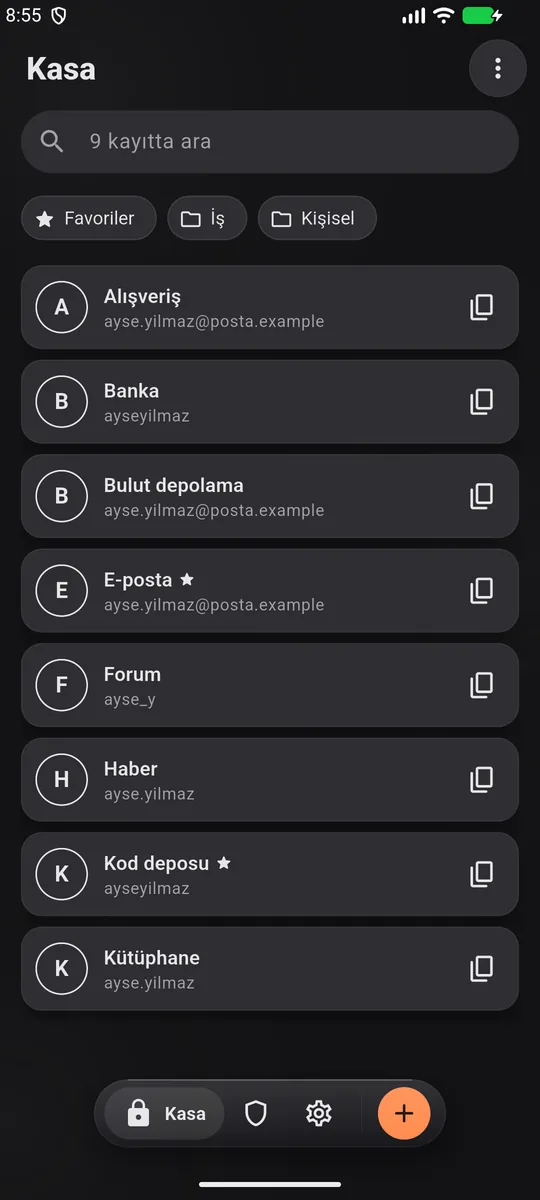
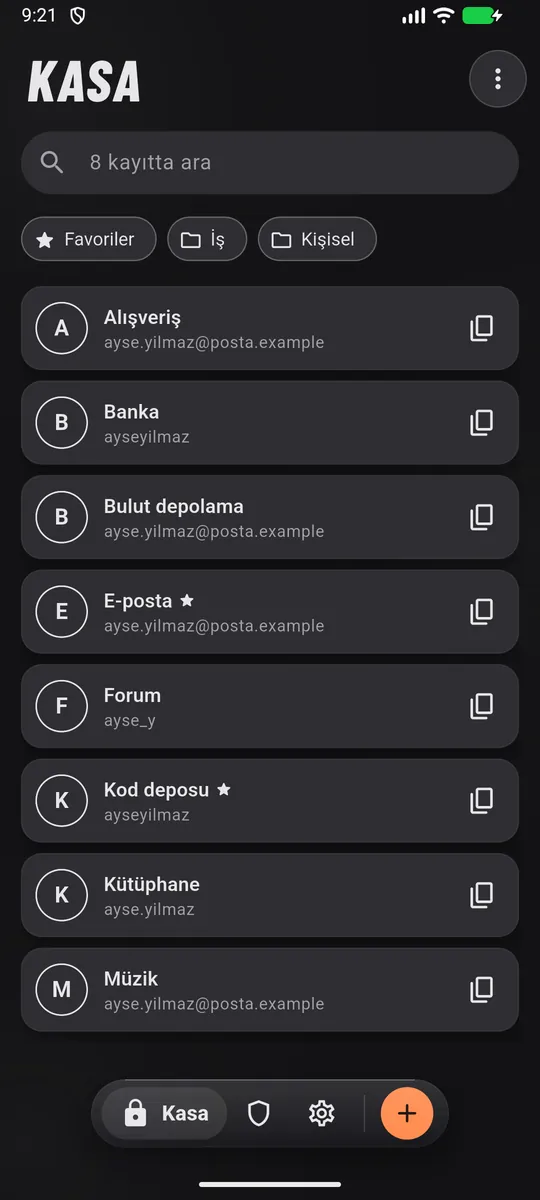
belge: kılavuz ve F-Droid görüntüleri yeni tasarımla, tasarım değişikliği notları
Değişen ekranların (04-09, 12-15) kılavuz görüntüleri ve F-Droid'in
yedi ekran görüntüsünden altısı emülatörde yeniden alındı. Kararlar
belgesine, CHANGELOG'a ve yol haritasına tasarım değişikliği eklendi.

Claude-Session: https://claude.ai/code/session_019UbfCJU1rrqfpoP9YWjUFc

diff --git a/resources/docs/kullanici-gozuyle.md b/resources/docs/kullanici-gozuyle.md
@@ -59,6 +59,12 @@ Proje sahibi (2026-11-17, sabah): "Benim istediğim cam tasarımı sadece alttak
 
 **Doğrulama:** Değişiklikler emülatörde önce/sonra ekran görüntüleriyle karşılaştırılır (emülatörün kendi kaydedicisi uygulamanın ekran koruması açıkken de görüntü alır); sonra telefon denemesi.
 
+**Durum (2026-11-17):** İkisi de yapıldı.
+
+- Açılan yüzeyler için temaya ayrı bir dolu renk (`raised`) eklendi: açık temada kart kremi, koyu temada karttan bir ton açık `#36363A`. Daha açık bir ton (`#3A3A3F`) ikincil yazıda 4,5:1 kontrastın altında kaldığı için seçilmedi; tema testi açılan yüzeyi de kontrast ölçümüne katıyor.
+- Ayrıntı ekranında iki kart; parola geçmişi kendi kartında kalıyor. Eski "her alan kendi kartında" testi kaldırıldı, yerine kartların gruplandığını sınayan test geldi.
+- Kılavuzdaki değişen ekranların görüntüleri (04-09, 12-15) ve F-Droid ekran görüntüleri bu tasarımla yeniden alındı. 01-03, 10 ve 11 değişmeyen ekranlar.
+
 ## Proje sahibinin kararına bırakılanlar
 
 Bunlar ya güvenlik tasarımını değiştiriyor ya da büyük iş; sırayı ve kararı proje sahibi verir. Yol haritasının "1.0 sonrası" tablosuna yazıldı.

diff --git a/resources/CHANGELOG.md b/resources/CHANGELOG.md
@@ -18,6 +18,12 @@ Faz 11 ([tasarım](docs/kullanici-gozuyle.md)).
 - Android 13 ve üstünde uygulamanın dili sistem ayarlarından ayrıca seçilebiliyor.
 - Kayıttaki web adresi "Siteyi aç" ile tarayıcıda açılıyor; Hakkında'da kaynak kod, sorun bildirme ve gizlilik bildirimi bağlantıları. Yalnızca http ve https adresleri tarayıcıya devrediliyor; KeyKey'e internet izni eklenmedi.
 
+### Değişenler
+
+- Cam yalnızca alt menüde ve "+" kutusunda: alttan açılan pencereler, ⋮ menüleri ve üst bildirim arkasını bulanıklaştırmıyor, dolu bir yüzeyle açılıyor (koyu temada kartlardan bir ton açık). Daha okunur ve daha akıcı.
+- Kayıt ayrıntısında alanlar iki kartta: giriş bilgileri (kullanıcı adı, parola, 2FA kodu, adresler, uygulamalar) ve ek bilgiler (klasör, özel alanlar, notlar); satırlar arasında ince çizgi.
+- Kılavuzun ve F-Droid'in ekran görüntüleri güncel tasarımla yenilendi.
+
 ### Düzeltilenler
 
 - Ana parola değiştirirken yanlış parola beklemesi saniye olarak değil, kilit ekranındaki gibi dakika:saniye geri sayımıyla gösteriliyor; bekleme bitene kadar düğme kapalı.
